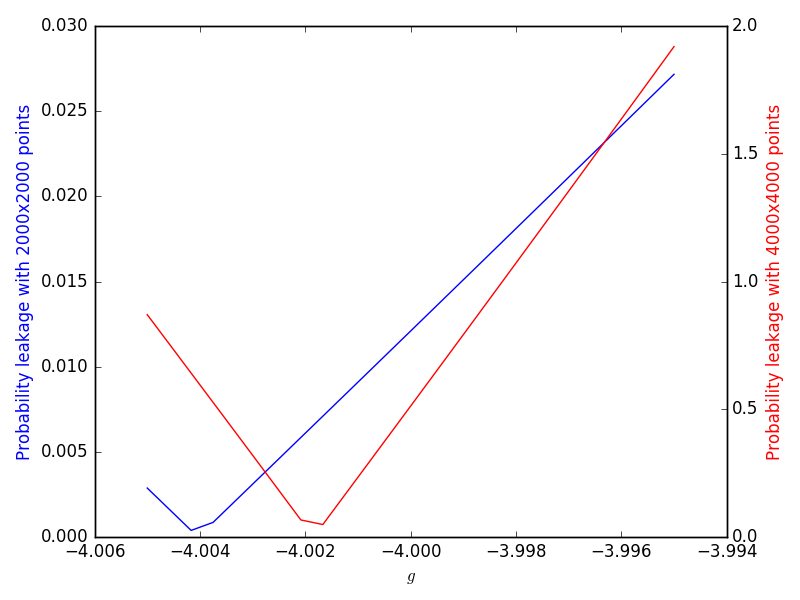
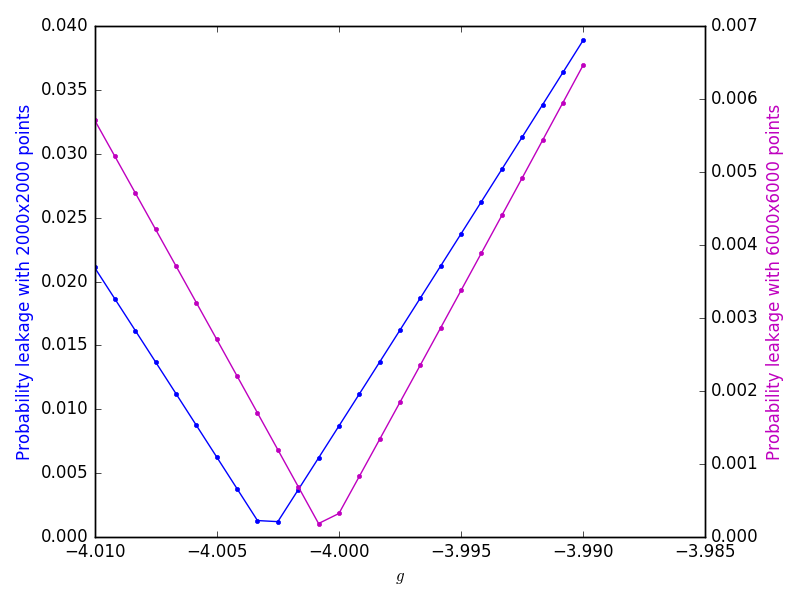
errors part 3

diff --git a/Code/milestone-v9.py b/Code/milestone-v9.py
@@ -77,29 +77,19 @@ def soliton(velocity):
 	psi_initial = (family_param/2)**0.5 * np.exp(1j*velocity*xs) / np.cosh(xs * family_param)
 	return psi_initial
 
-def accuracy_test(g,t):
+def accuracy_test(g,t,range_x,n_times,dt,dx):
     #uses trapezium rule
     psisquareds_test = schrodinger_time_evolution(soliton(0), 0, g)
+    
     t = int(t/dt) #taking timestep into account and making sure it's an integer as it is used for indexing 
-    norm = np.trapz(psisquareds_test[750:1250,:],xs[750:1250],axis=0)
-    #print "norm at 0: {}".format(norm[0])
-    #print "norm at 1.999: {}".format(norm[t])
+    x_low = int(n_times/2 - range_x/(2*dx))
+    x_high = int(n_times/2 + range_x/(2*dx))
+    
+    norm = np.trapz(psisquareds_test[x_low:x_high,:],xs[x_low:x_high],axis=0)
+
     accuracy = abs(norm[0] - norm[t])*100/norm[0] #percentage change in norm 
     return accuracy
-    
-def errors(gs):
-    errors = np.zeros(len(gs))
-    
-    for ig, g in enumerate(gs):
-        errors[ig] = accuracy_test(g, 1.999)
-        
-        if errors[ig] == 0:
-            if g != 4:
-                print "what the hell"
-            else:
-                print "noice work" 
-        
-    return errors
+
 
 #tests
 
@@ -113,7 +103,7 @@ testpsi2 = schrodinger_time_evolution(soliton(velocity), 0, g_test2) #nonlinear 
 p = particle_SHM(0,velocity*10/5,0.000001) #effectively zero frequency to get approximation of zero potential and test function 
 
 #testing accuracy
-acc = accuracy_test(g_test2, 1.999)
+acc = accuracy_test(g_test2,1.999,4,n_times,dt,dx)
 print "Norm is conserved to {} % accuracy".format(acc) 
 
 
@@ -125,32 +115,63 @@ if do_errors:
     range_g = 0.02
     n = 25
     gs = np.linspace(g_centre - range_g/2, g_centre + range_g/2, n)
-    err_gs = errors(gs)
-
+    
+    err_gs = np.zeros(len(gs))
+    
+    for ig, g in enumerate(gs):
+        err_gs[ig] = accuracy_test(g,ts[-2],5,n_times,dt,dx)
+    
+    # # REDEFINING GLOBAL VARIABLES 
+    # n_times = 4000
+    # dt = 0.001
+    # xs = np.linspace(-10,10,n_times) 
+    # ts = np.linspace(0,4,n_times)
+    # L = xs[-1] - xs[0]
+    # dx = L/n_times #SMALLER dx, dt STAYS THE SAME
+    # 
+    # g_centre = -4
+    # range_g = 0.02
+    # n = 25
+    # gs2 = np.linspace(g_centre - range_g/2, g_centre + range_g/2, n)
+    # 
+    # err_gs2 = np.zeros(len(gs))
+    # 
+    # for ig, g in enumerate(gs):
+    #     err_gs2[ig] = accuracy_test(g,ts[-2],5,n_times,dt,dx)
+    
     # REDEFINING GLOBAL VARIABLES 
-    n_times = 4000
-    dt = 0.002
-    xs = np.linspace(-10,10,n_times)
-    ts = np.linspace(0,2,n_times)
+    n_times = 6000
+    dt = 0.001
+    xs = np.linspace(-10,10,n_times) 
+    ts = np.linspace(0,6,n_times)
     L = xs[-1] - xs[0]
-    dx = L/n_times
+    dx = L/n_times #SMALLER dx, dt STAYS THE SAME
     
     g_centre = -4
     range_g = 0.02
     n = 25
-    gs2 = np.linspace(g_centre - range_g/2, g_centre + range_g/2, n)
-    err_gs2 = errors(gs2)
+    gs3 = np.linspace(g_centre - range_g/2, g_centre + range_g/2, n)
+    
+    err_gs3 = np.zeros(len(gs))
+    
+    for ig, g in enumerate(gs):
+        err_gs3[ig] = accuracy_test(g,ts[-2],5,n_times,dt,dx)
+    
     
     #plot with shared x axis and different y axes
     fig, ax1 = pyplot.subplots()
-    ax1.plot(gs, err_gs, 'b-')
+    ax1.plot(gs, err_gs, 'b.-')
     ax1.set_xlabel(r'$g$')
     # Make the y-axis label, ticks and tick labels match the line color.
     ax1.set_ylabel('Probability leakage with 2000x2000 points', color='b')
     
-    ax2 = ax1.twinx()
-    ax2.plot(gs2, err_gs2, 'r-')
-    ax2.set_ylabel('Probability leakage with 4000x4000 points', color='r')
+    # ax2 = ax1.twinx()
+    # ax2.plot(gs2, err_gs2, 'm.-')
+    # ax2.set_ylabel('Probability leakage with 4000x4000 points', color='m')
+    
+    ax3 = ax1.twinx()
+    ax3.plot(gs3, err_gs3, 'm.-')
+    ax3.set_ylabel('Probability leakage with 6000x6000 points', color='m')
     
     fig.tight_layout()
     pyplot.savefig("errors.png")

diff --git a/Code/extension-v6-3solitons.py b/Code/extension-v6-3solitons.py
@@ -50,7 +50,7 @@ def schrodinger_time_evolution(psi_initial, V, g):
 	return psisquareds
 	
 
-def particles(start, velocity, spring_constant, mass):
+def two_particles(start, velocity, spring_constant, mass):
     
     frequency = np.sqrt(spring_constant/mass)
     x = np.zeros(n_times)
@@ -64,9 +64,9 @@ def particles(start, velocity, spring_constant, mass):
 #global variables for extent of modelling 
 
 n_points = 4000 #number of x steps 
-n_times = 10000 #number of timesteps
+n_times = 4000 #number of timesteps
 dt = 0.001
-ts = np.linspace(0,10,n_times) 
+ts = np.linspace(0,4,n_times) 
 xs = np.linspace(-20, 20, n_points)
 L = xs[-1] - xs[0] #box length 
 dx = L/n_points
@@ -84,6 +84,10 @@ def soliton(start, velocity, initial_phase, family_param): #frequency = 1
 	
 def two_solitons(x1,x2,v1,v2, phase1, phase2, family_param):
     psi_combined = soliton(x1,v1,phase1,family_param) + soliton(x2,v2,phase2,family_param) 
+    return psi_combined
+    
+def three_solitons(x1,x2,x3,v1,v2,v3,phase1,phase2,phase3, family_param):
+    psi_combined = soliton(x1,v1,phase1,family_param) + soliton(x2,v2,phase2,family_param) + soliton(x3,v3,phase3,family_param)
     return psi_combined
 
 #test accuracy of modelling with a special case
@@ -112,27 +116,21 @@ V = 1/2 * K * xs**2
 #zeroPot = schrodinger_time_evolution(two_solitons(-6,6,L/6,-L/6,0,rel_phase1,0.5), 0, g) 
 #zeroPotPi = schrodinger_time_evolution(two_solitons(-6,6,L/6,-L/6,0,rel_phase2,0.5), 0, g) 
 
-velocity = 10 #L/2 originally 
-
-#particle of mass 0.5
-p = particles(-4,20,K,0.5) #velocity scaling of 1/5 * 10 (10 from time scaling)
-q = particles(4,-20,K,0.5) 
+velocity = 10
 
 
-harmPot = schrodinger_time_evolution(two_solitons(-4,4,velocity,-velocity,0,rel_phase1,family_param), V, g) 
+harmPot = schrodinger_time_evolution(three_solitons(-4,0,4,velocity,-velocity,velocity,0,rel_phase1,rel_phase1,family_param), V, g) 
 
 ########## PLOTS ############
-pyplot.figure(figsize=(5,15)) #figsize=(16,5)
+pyplot.figure() #figsize=(16,5)
 #pyplot.suptitle("g={}".format(g))
 
-pyplot.imshow(np.transpose(harmPot), extent=(-20,20,0,100), origin='lower', cmap='viridis', norm=colors.SymLogNorm(linthresh=0.3, vmin=harmPot.min(), vmax=harmPot.max()))
+pyplot.imshow(np.transpose(harmPot), extent=(-20,20,0,40), origin='lower', cmap='viridis', norm=colors.SymLogNorm(linthresh=0.3, vmin=harmPot.min(), vmax=harmPot.max()))
 pyplot.xlabel("Space", fontsize=12)
 pyplot.ylabel("Time", fontsize=12)
 pyplot.title("Relative phase {}".format(rel_phase1), fontsize=16)
-pyplot.plot(p,ts*10)
-pyplot.plot(q,ts*10)
 
-pyplot.savefig('particles.png')
+#pyplot.savefig('particle.png')
 pyplot.show() 
 
 print (time.time() - start), "s"
